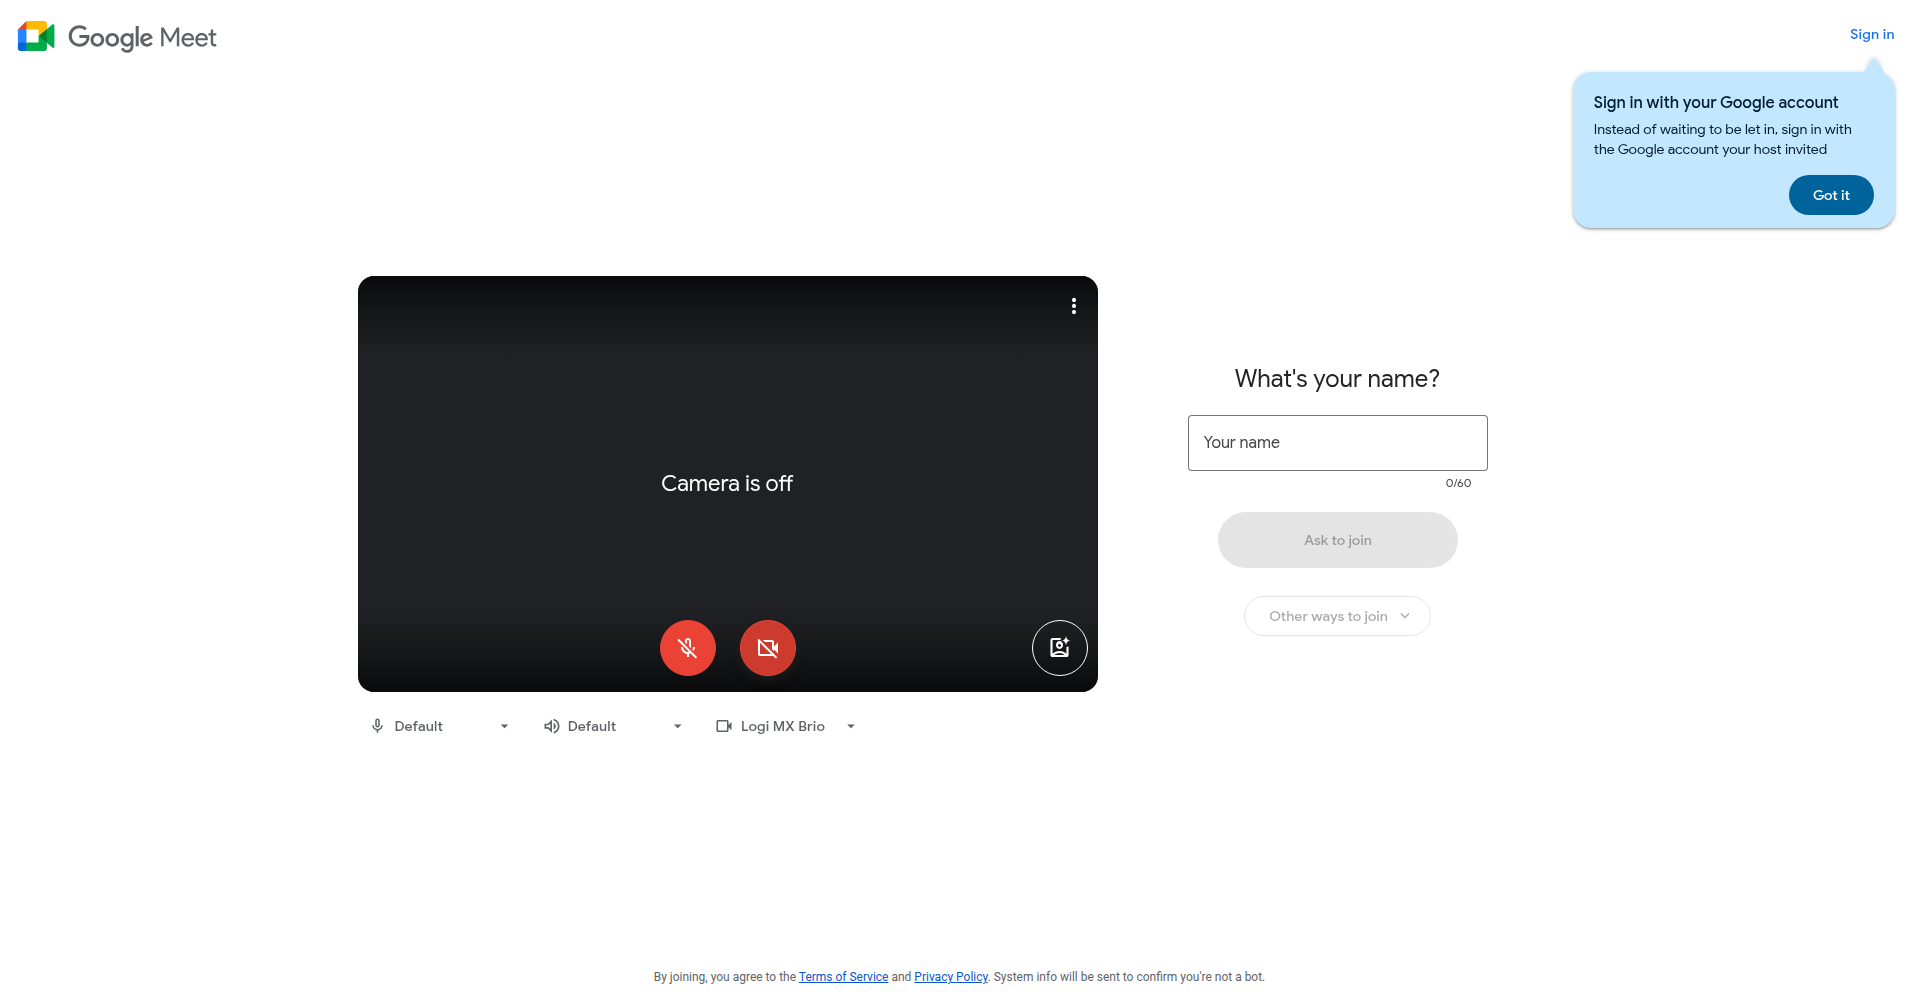
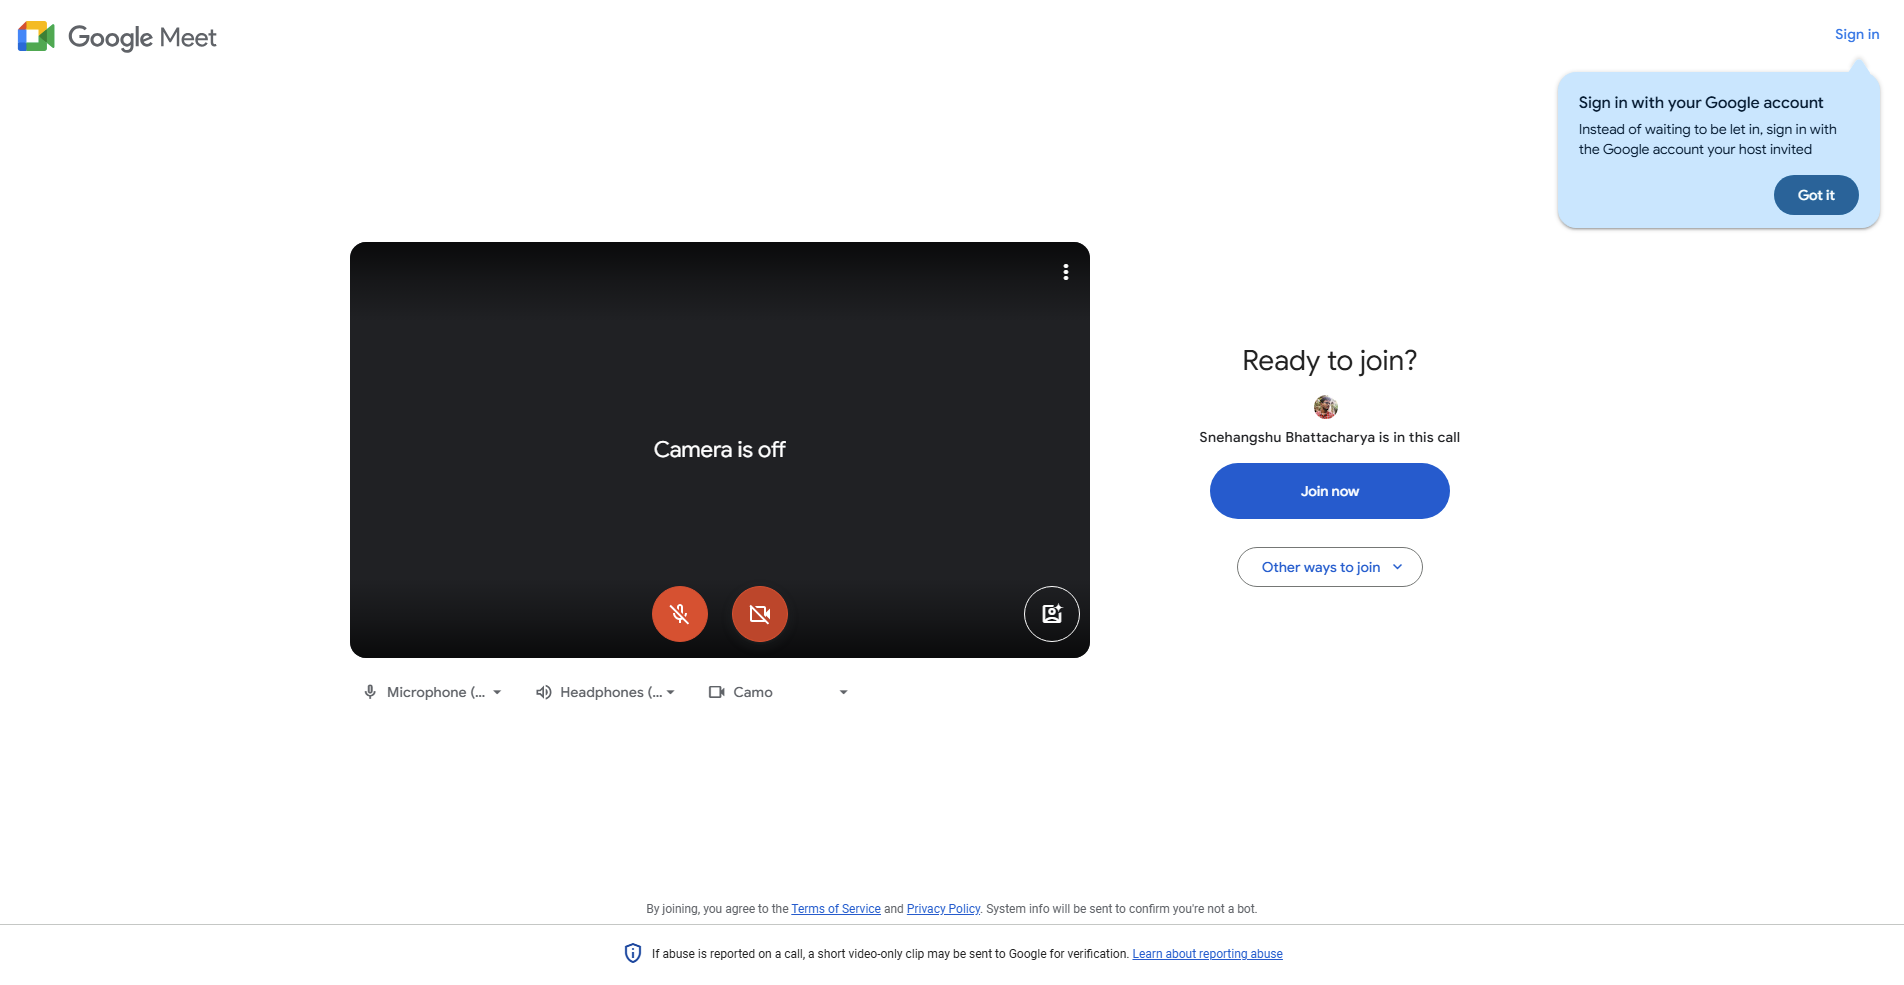
Almost all features working

diff --git a/attendees.js b/attendees.js
@@ -1,31 +1,40 @@
 // 1. Build your regex once
-const joinedRe = /\bjoined$/i;
+const joinedRe = /\\bjoined$/i;
+const leftRe = /\\bhas left the meeting$/i;
 
 // 2. Observer callback
 function onMutations(mutationsList) {
-  for (const mutation of mutationsList) {
-    // We only care about nodes being added
-    if (mutation.type !== 'childList' || mutation.addedNodes.length === 0) 
-      continue;
+    for (const mutation of mutationsList) {
+        // We only care about nodes being added
+        if (mutation.type !== 'childList' || mutation.addedNodes.length === 0)
+            continue;
 
-    for (const node of mutation.addedNodes) {
-      // If it’s an element, grab its text; if it’s a text node, use it directly
-      const text = (node.nodeType === Node.TEXT_NODE)
-        ? node.nodeValue
-        : node.textContent;
-
-      if (text && joinedRe.test(text.trim())) {
-        console.log('Someone joined! Text matched “joined”:', text.trim());
-        // fire your notification or message here…
-        return;  // stop once we’ve detected one
-      }
+        for (const node of mutation.addedNodes) {
+            // If it’s an element, grab its text; if it’s a text node, use it directly
+            const text = (node.nodeType === Node.TEXT_NODE)
+                ? node.nodeValue
+                : node.textContent;
+            if (text) {
+                if (joinedRe.test(text.trim())) {
+                    console.log('Someone joined! Text matched “joined”:', text.trim());
+                    // fire your notification or message here…
+                    window._join_message = text.trim();
+                    return;  // stop once we’ve detected one
+                }
+                if (leftRe.test(text.trim())) {
+                    console.log('Someone left! Text matched “has left the meeting”:', text.trim());
+                    // fire your notification or message here…
+                    window._left_message = text.trim();
+                    return;  // stop once we’ve detected one
+                }
+            }
+        }
     }
-  }
 }
 
 // 3. Create & attach the observer
 const observer = new MutationObserver(onMutations);
-observer.observe(document.body, {
-  childList: true,
-  subtree: true
+observer.observe(document.body || document.documentElement, {
+    childList: true,
+    subtree: true
 });

diff --git a/services/meet_svc.py b/services/meet_svc.py
@@ -7,17 +7,14 @@ from selenium.webdriver.support import expected_conditions as EC
 from selenium.webdriver.common.action_chains import ActionChains
 from selenium.webdriver.common.keys import Keys
 from models.models import Layout
+import undetected_chromedriver as uc
 
 
-def join_google_meet(driver, bot_name: str, meet_url: str):
+def join_google_meet(driver: uc.Chrome, bot_name: str, meet_url: str):
     """
     Join a Google Meet session using provided webdriver
     """
     try:
-        # Keep window on focus
-        # driver.execute_script("window.onblur = function() { window.onfocus() }")
-        # time.sleep(15)
-
         # Navigate to the Google Meet URL
         print(f"Navigating to {meet_url}")
         driver.get(meet_url)
@@ -80,14 +77,67 @@ def join_google_meet(driver, bot_name: str, meet_url: str):
         # Try "Ask to join" button
         reliable_click(
             driver,
-            (By.XPATH, "//span[contains(text(), 'Ask to join')]"),
+            (By.XPATH, "//span[contains(text(), 'Ask to join') or contains(text(), 'Join now')]"),
             None,
             "'Ask to join' button",
             max_attempts=2,
         )
         driver.save_screenshot("screenshots/ask_to_join.png")
 
-        print("Join attempt completed, waiting in the meeting...")
+        print("Join attempt completed, waiting to let in by the host...")
+
+        mutation_observer_script = """
+        // 1. Build your regex once
+        const joinedRe = /\\bjoined$/i;
+        const leftRe = /\\bhas left the meeting$/i;
+
+        // 2. Observer callback
+        function onMutations(mutationsList) {
+            for (const mutation of mutationsList) {
+                // We only care about nodes being added
+                if (mutation.type !== 'childList' || mutation.addedNodes.length === 0)
+                    continue;
+
+                for (const node of mutation.addedNodes) {
+                    // If it’s an element, grab its text; if it’s a text node, use it directly
+                    const text = (node.nodeType === Node.TEXT_NODE)
+                        ? node.nodeValue
+                        : node.textContent;
+                    if (text) {
+                        if (joinedRe.test(text.trim())) {
+                            console.log('Someone joined! Text matched “joined”:', text.trim());
+                            // fire your notification or message here…
+                            window._join_message = text.trim();
+                            return;  // stop once we’ve detected one
+                        }
+                        if (leftRe.test(text.trim())) {
+                            console.log('Someone left! Text matched “has left the meeting”:', text.trim());
+                            // fire your notification or message here…
+                            window._left_message = text.trim();
+                            return;  // stop once we’ve detected one
+                        }
+                    }
+                }
+            }
+        }
+
+        // 3. Create & attach the observer
+        const observer = new MutationObserver(onMutations);
+        observer.observe(document.body || document.documentElement, {
+            childList: true,
+            subtree: true
+        });
+        """
+        driver.execute_cdp_cmd(
+            "Runtime.evaluate",
+            {
+                "expression": mutation_observer_script,
+                "awaitPromise": False,
+                "includeCommandLineAPI": True,
+            },
+        )
+
+    # <button class="VfPpkd-LgbsSe VfPpkd-LgbsSe-OWXEXe-dgl2Hf ksBjEc lKxP2d LQeN7" jscontroller="soHxf" jsaction="click:cOuCgd; mousedown:UX7yZ; mouseup:lbsD7e; mouseenter:tfO1Yc; mouseleave:JywGue; touchstart:p6p2H; touchmove:FwuNnf; touchend:yfqBxc; touchcancel:JMtRjd; focus:AHmuwe; blur:O22p3e; contextmenu:mg9Pef;mlnRJb:fLiPzd" data-idom-class="ksBjEc lKxP2d LQeN7" data-mdc-dialog-action="ok" data-mdc-dialog-button-default="" data-mdc-dialog-initial-focus=""><div class="VfPpkd-Jh9lGc"></div><div class="VfPpkd-J1Ukfc-LhBDec"></div><div class="VfPpkd-RLmnJb"></div><span jsname="V67aGc" class="VfPpkd-vQzf8d">Got it</span></button>
 
     except KeyboardInterrupt:
         print("Exiting...")
@@ -128,18 +178,17 @@ def check_if_joined(driver, bot_name: str):
     return joined
 
 
-def list_participants(driver):
-    participants = driver.execute_script("""function getCurrentParticipants() {
-    // select the “Participants” list by its jsname + aria-label
-    const listEl = document.querySelector('div[role="list"][aria-label="Participants"]');
-    if (!listEl) return new Set();
-
-    // each listitem has aria-label="Name"
-    const items = Array.from(listEl.querySelectorAll('div[role="listitem"][data-participant-id]'));
-    return new Set(items.map(li => li.getAttribute('aria-label').trim()));
-    }
-    getCurrentParticipants()""")
-    print(participants)
+def clear_got_it_dialogs(driver):
+    try:
+        # Find all buttons with aria-label "Got it"
+        got_it_buttons = driver.find_elements(
+            By.XPATH, "//button[.//span[normalize-space(.)='Got it']]"
+        )
+        for button in got_it_buttons:
+            driver.execute_script("arguments[0].click();", button)
+            time.sleep(1)
+    except Exception as e:
+        print(f"Error clearing got it dialogs: {e}")
 
 
 def find_mute_status(driver):
@@ -165,6 +214,9 @@ def find_mute_status(driver):
 
 
 def toggle_mute_state(driver):
+    # Clear any "Got it" dialogs, so that elements are clickable
+    clear_got_it_dialogs(driver)
+
     # Focus on the Google Meet window
     action = ActionChains(driver)
     action.key_down(Keys.CONTROL).send_keys("d").key_up(Keys.CONTROL).perform()
@@ -176,6 +228,9 @@ def toggle_mute_state(driver):
 
 
 def change_meeting_layout(driver, layout: Layout):
+    # Clear any "Got it" dialogs, so that elements are clickable
+    clear_got_it_dialogs(driver)
+
     more_options_button = driver.find_element(
         By.XPATH,
         "//button[@aria-label='More options' and @data-use-native-focus-logic='true']",
@@ -252,6 +307,9 @@ def change_meeting_layout(driver, layout: Layout):
 
 
 def send_chat_message(driver, message: str):
+    # Clear any "Got it" dialogs, so that elements are clickable
+    clear_got_it_dialogs(driver)
+
     chat_button = WebDriverWait(driver, timeout=10).until(
         EC.element_to_be_clickable(
             (By.XPATH, "//button[@aria-label='Chat with everyone']")

diff --git a/api.py b/api.py
@@ -1,15 +1,15 @@
-from fastapi import FastAPI, WebSocket, WebSocketDisconnect, HTTPException
+from fastapi import FastAPI, WebSocket, WebSocketDisconnect
 from fastapi.middleware.cors import CORSMiddleware
-from pydantic import BaseModel
 import uvicorn
 import undetected_chromedriver as uc
 from services.launch_svc import launch_webdriver
-from services.meet_svc import join_google_meet, toggle_mute_state, change_meeting_layout, send_chat_message, exit_meeting, list_participants
+from services.meet_svc import join_google_meet, toggle_mute_state, change_meeting_layout, send_chat_message, exit_meeting
 from contextlib import asynccontextmanager
 from faker import Faker
-import json
 import asyncio
 from datetime import datetime
+from fastapi_utils.tasks import repeat_every
+
 
 from models.models import JoinMeetingRequest, ChangeLayoutRequest, SendChatMessageRequest
 
@@ -53,6 +53,7 @@ manager = ConnectionManager()
 async def lifespan(app: FastAPI):
     global driver
     driver = launch_webdriver()
+    await check_participants()
     yield
     driver.quit()
 
@@ -96,13 +97,6 @@ async def leave_meeting_background():
         "type": "meeting_left",
         "timestamp": datetime.now().isoformat()
     })
-
-@app.get("/run_script")
-async def run_script():
-    list_participants(driver)
-    return {"message": "Script run operation started"}
-
-
 
 @app.post("/toggle_mute")
 async def toggle_mute():
@@ -168,6 +162,26 @@ async def send_message_background(request: SendChatMessageRequest):
         }
     })
 
+
+@repeat_every(seconds=15, raise_exceptions=True)
+async def check_participants():
+    print("Checking participants")
+    join_message = driver.execute_script("return window._join_message")
+    left_message = driver.execute_script("return window._left_message")
+    if join_message:
+        await manager.broadcast({
+            "type": "participant_joined",
+            "timestamp": datetime.now().isoformat(),
+            "data": {"message": join_message}
+        })
+        driver.execute_script("window._join_message = null")
+    if left_message:
+        await manager.broadcast({
+            "type": "participant_left",
+            "timestamp": datetime.now().isoformat(),
+            "data": {"message": left_message}
+        })
+        driver.execute_script("window._left_message = null")
 
 @app.websocket("/events")
 async def events_websocket(websocket: WebSocket):

diff --git a/meetbot_cli.py b/meetbot_cli.py
@@ -30,6 +30,7 @@ class MeetBotCLI:
         self.ws_thread = None
         self.commands = {
             "join": self.join_meeting,
+            "leave": self.leave_meeting,
             "mute": self.toggle_mute,
             "layout": self.change_layout,
             "screenshot": self.create_screenshot,
@@ -161,6 +162,21 @@ class MeetBotCLI:
         else:
             print(f"{Fore.RED}Error: {response.status_code}{Style.RESET_ALL}")
             print(response.json())
+
+    def leave_meeting(self, args):
+        """Leave a Google Meet meeting"""
+        if args and args[0] == "help":
+            print("Usage: leave")
+            print("Leaves the current Google Meet meeting")
+            return
+        
+        response = requests.post(f"{API_BASE_URL}/leave_meeting")
+        if response.status_code == 200:
+            print(f"{Fore.GREEN}Successfully initiated leave meeting operation{Style.RESET_ALL}")
+        else:
+            print(f"{Fore.RED}Error: {response.status_code}{Style.RESET_ALL}")
+            print(response.json())
+            
 
     def toggle_mute(self, args):
         """Toggle the microphone mute state"""

diff --git a/services/launch_svc.py b/services/launch_svc.py
@@ -1,6 +1,6 @@
 import undetected_chromedriver as uc
 
-def launch_webdriver(headless: bool = False):
+def launch_webdriver(headless: bool = False) -> uc.Chrome:
     """
     Launch a undetected Chrome webdriver instance
     """
@@ -29,5 +29,6 @@ def launch_webdriver(headless: bool = False):
         "origin": "https://meet.google.com",
         "permissions": ["audioCapture", "videoCapture"]
     })
+    
 
     return driver
